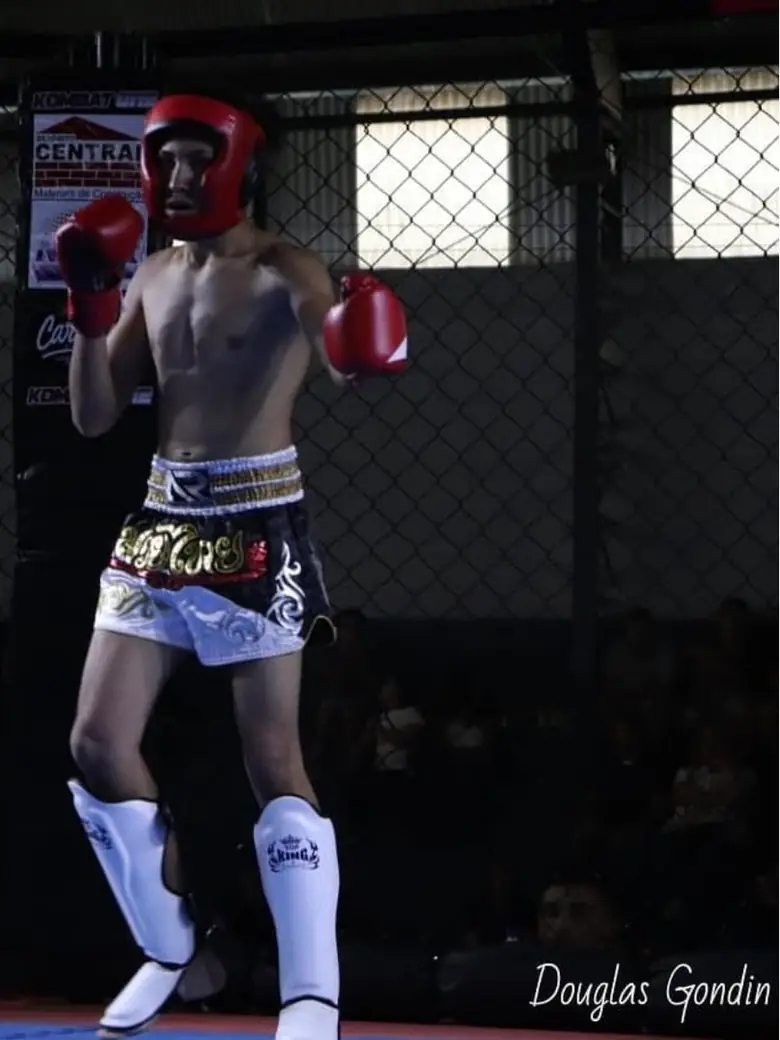
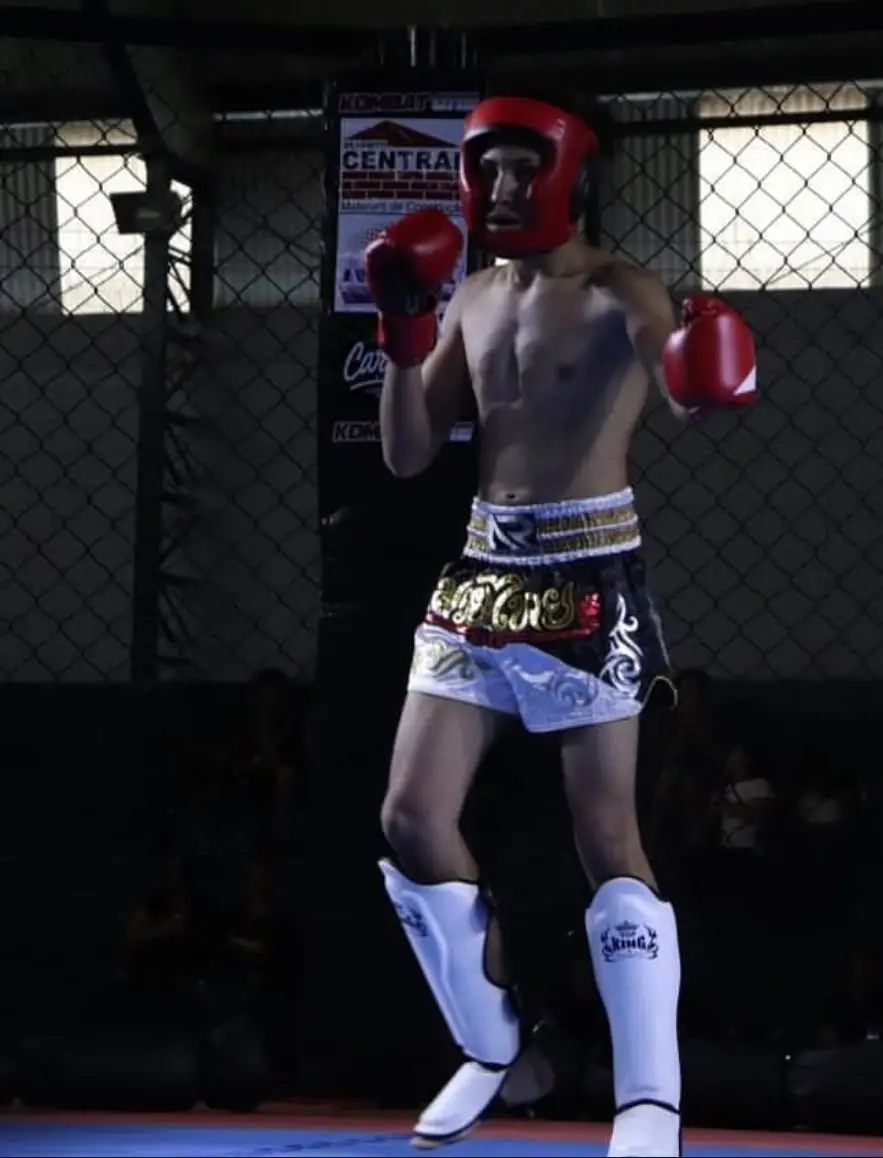
att final1

diff --git a/frontend/src/data/content.js b/frontend/src/data/content.js
@@ -7,6 +7,7 @@ import luta4 from '../assets/jornada/luta4.webp';
 import luta5 from '../assets/jornada/luta5.webp';
 import luta6 from '../assets/jornada/luta6.webp';
 import luta7 from '../assets/jornada/luta7.webp';
+import luta8 from '../assets/jornada/luta8.webp';
 import luta9 from '../assets/jornada/luta9.webp';
 import seminarioLobo from '../assets/jornada/seminario-lobo.webp';
 import seminarioRangel from '../assets/jornada/seminario-rangel.webp';
@@ -37,14 +38,14 @@ export const IMAGES = {
     journey: [
         // ---- 1º: LUTAS ----
         { url: luta9, alt: "Foto de luta", caption: "Festival de Boxe", description: "Boxe | Outubro de 2026", cat: "lutas" },
-        { url: null, alt: "Foto de luta", caption: "", description: "", cat: "lutas" },
+        { url: luta8, alt: "Foto de luta", caption: "Hard Fight", description: "Muay Thai | KO 1º Round | Julho de 2023", cat: "lutas" },
         { url: luta7, alt: "Foto de luta", caption: "Brasileiro de Kickboxing - ISKA", description: "Kickboxing | KO 1º Round | Maio de 2023 ", cat: "lutas" },
-        { url: luta6, alt: "Foto de luta", caption: "", description: "", cat: "lutas" },
-        { url: luta5, alt: "Foto de luta", caption: "", description: "", cat: "lutas" },
-        { url: luta4, alt: "Foto de luta", caption: "", description: "", cat: "lutas" },
-        { url: luta3, alt: "Foto de luta", caption: "", description: "", cat: "lutas" },
-        { url: luta2, alt: "Foto de luta", caption: "", description: "", cat: "lutas" },
-        { url: luta1, alt: "Foto de luta", caption: "", description: "", cat: "lutas" },
+        { url: luta6, alt: "Foto de luta", caption: "Hard Fight", description: "Muay Thai | Maio de 2022", cat: "lutas" },
+        { url: luta5, alt: "Foto de luta", caption: "Hard Fight", description: "Kickboxing | Dezembro de 2021", cat: "lutas" },
+        { url: luta4, alt: "Foto de luta", caption: "Hard Fight", description: "Muay Thai | Março de 2020", cat: "lutas" },
+        { url: luta3, alt: "Foto de luta", caption: "Kombat One", description: "Kickboxing | KO 2º Round | Dezembro de 2019", cat: "lutas" },
+        { url: luta2, alt: "Foto de luta", caption: "Lek Fight", description: " Muay Thai | Outubro de 2019", cat: "lutas" },
+        { url: luta1, alt: "Foto de luta", caption: "CTB FIGHT", description: "Kickboxing | Dezembro de 2017", cat: "lutas" },
 
         // ---- 2º: TREINOS ----
         { url: treino1, alt: "Treino de Muay Thai", caption: "", description: "", cat: "treinos" },
@@ -204,17 +205,7 @@ export const HOME_PACKS = [
 export const HOMEPACK = HOME_PACKS[0];
 
 export const TESTIMONIALS = [
-     {
-        name: "Nome",
-        role: "Subtítulo",
-        quote: "Depoimento",
-    },    
     {
-        name: "André",
-        role: "Aulas em domicílio",
-        quote: "###",
-    },
-     {
         name: "Vitor",
         role: "Treino individual",
         quote: "Ta sendo uma experiência muito boa, as aulas estão sendo ótimas, estou gostando demais!",
@@ -222,7 +213,7 @@ export const TESTIMONIALS = [
      {
         name: "Mariana",
         role: "Aulas em domicílio",
-        quote: "###",
+        quote: "Eu estou gostando demais das aulas! Você ensina com paciência e me ajuda a superar meus limites quando nem eu acho que consigo. Uns meses atrás eu não me imaginava lutando e hoje eu amo, já vejo muita diferença no meu condicionamento físico!",
     },
      {
         name: "Rosilma",
